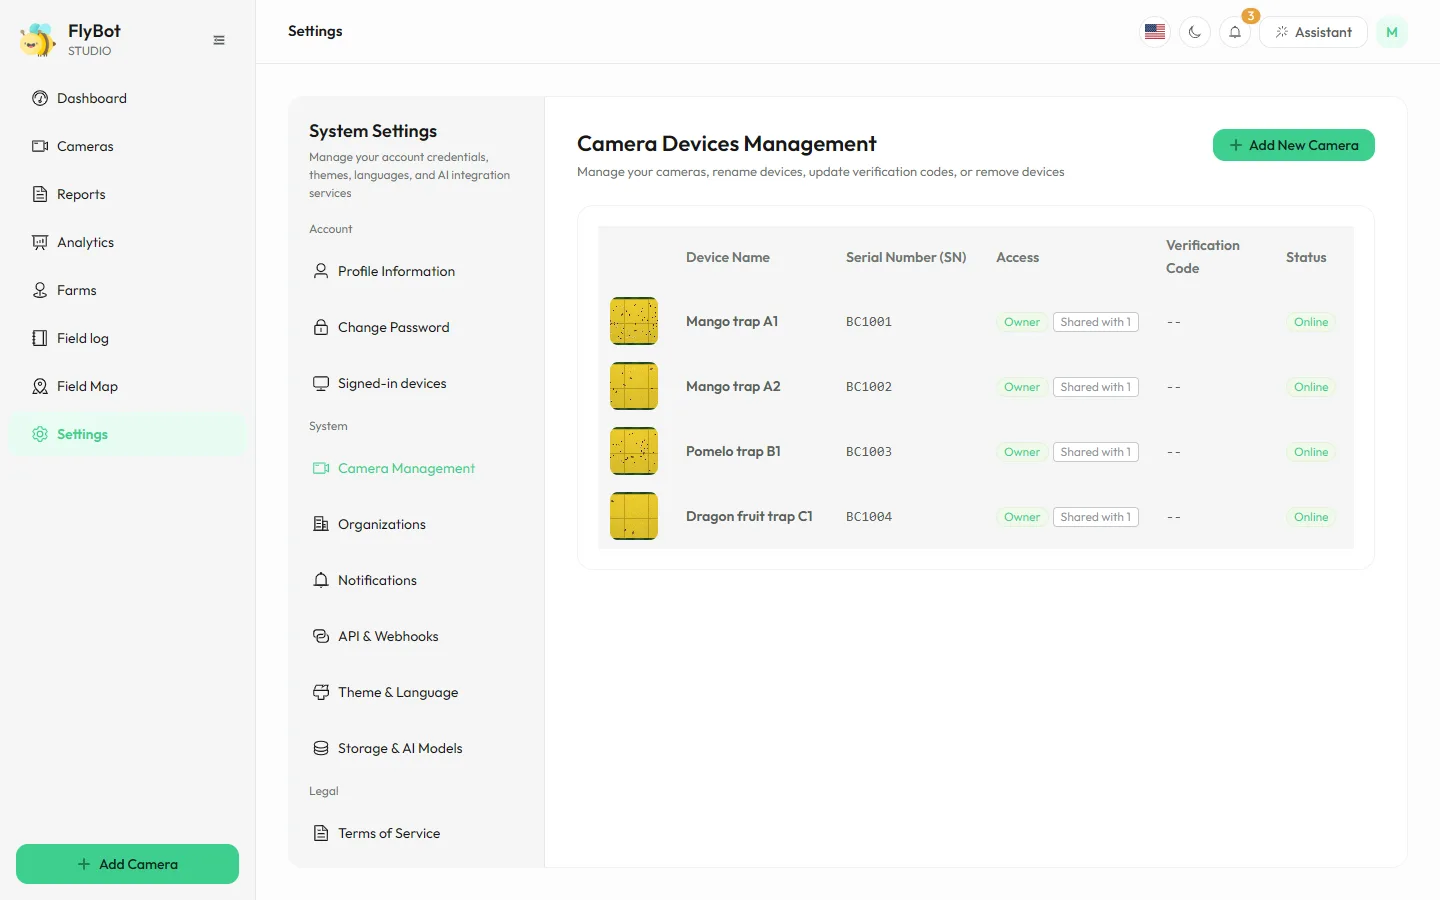
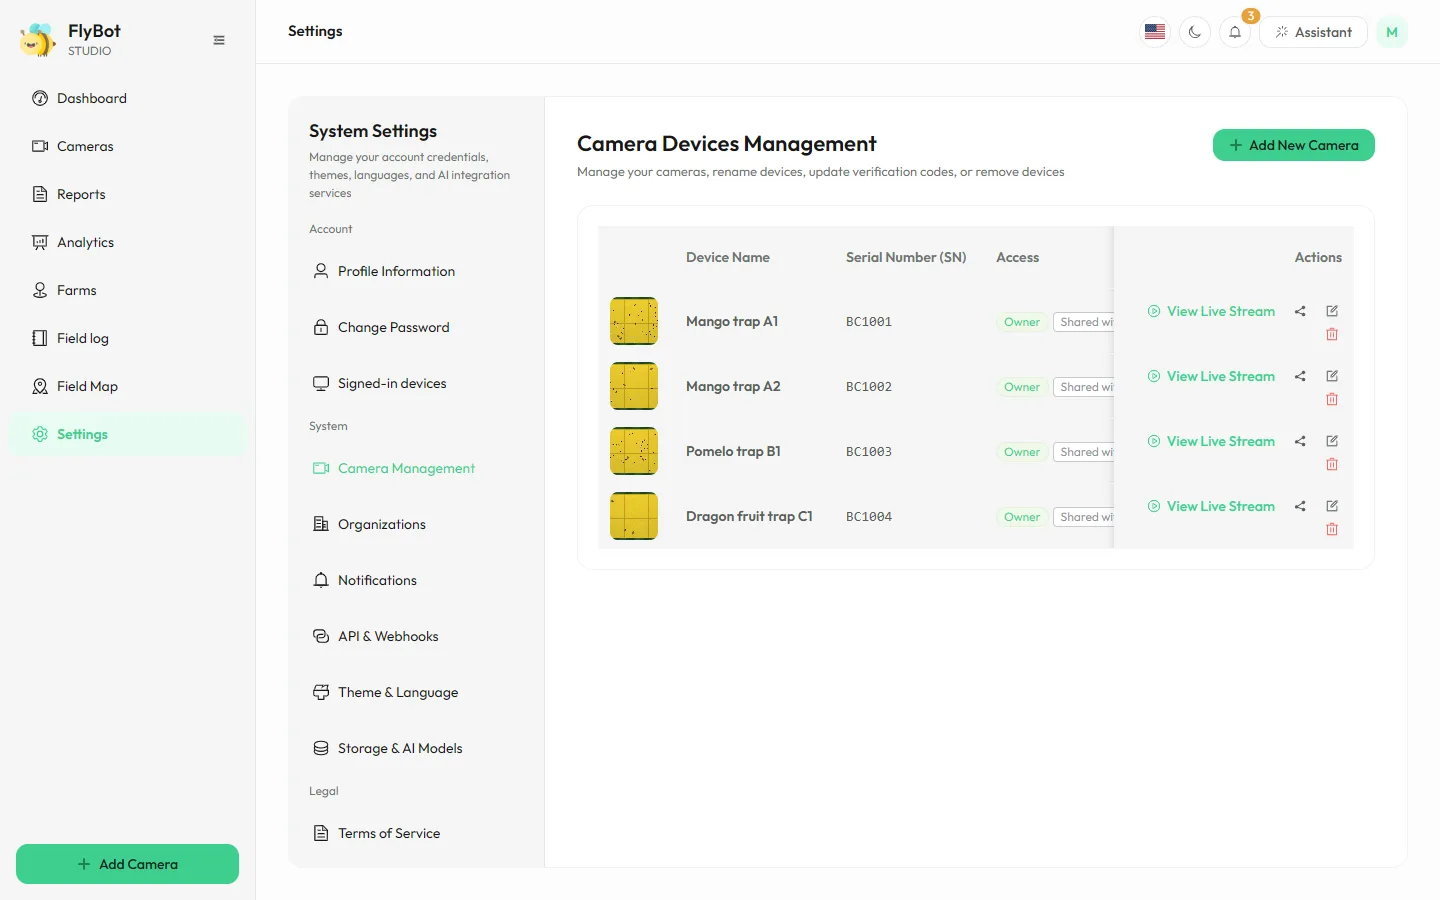
Vietnamese labels without English asides; camera table keeps actions in view
- vi: drop English in brackets (Verification Code, Min/Max/Avg, Single,
  Grid, Defence, Latitude/Longitude, Serial Number); the connect hint
  says where the code is printed instead
- Settings > Camera Management pins the actions column to the right
- Guide screenshots re-shot for the changed screens

diff --git a/client/src/pages/settings/index.vue b/client/src/pages/settings/index.vue
@@ -308,7 +308,7 @@
                   </template>
                 </el-table-column>
 
-                <el-table-column :label="t('common.actions')" width="240" align="right">
+                <el-table-column :label="t('common.actions')" width="240" align="right" fixed="right">
                   <template #default="{ row }">
                     <el-button link type="primary" :icon="VideoPlay" @click="selectCameraAndGoToLive(row)">
                       {{ t('settings.viewLiveBtn') }}
